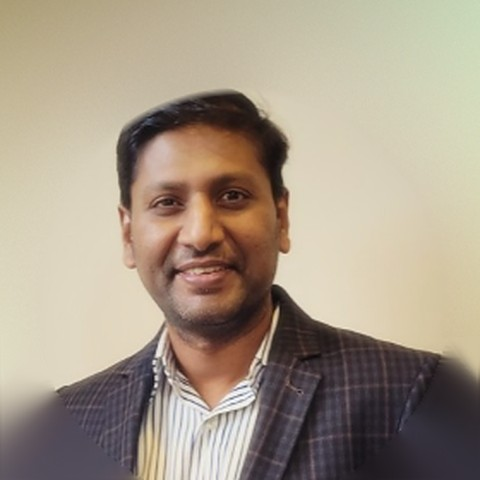
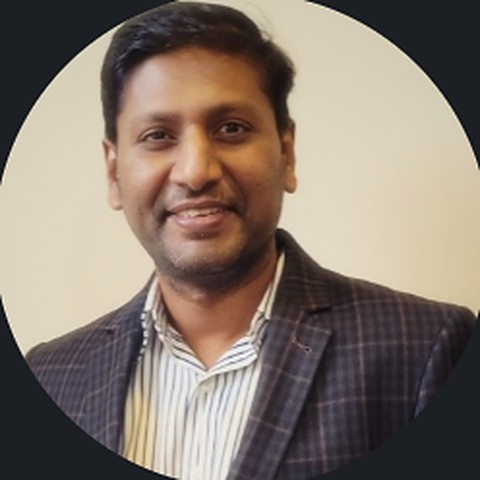
Use the closer photo crop; update home test for the photo hero
Claude-Session: https://claude.ai/code/session_013HtZEuaN4uT7PRGA9nczj2

diff --git a/tests/test_site.py b/tests/test_site.py
@@ -36,7 +36,7 @@ def test_builds_with_no_posts(site):
     counts = build.build(copy / "_site")
     assert counts == {"posts": 0, "frameworks": 9, "books": 0, "pages": 1, "scheduled": []}
     home = (copy / "_site" / "index.html").read_text()
-    assert "No posts yet." in home and "The Question Loop" in home
+    assert "No posts yet." in home and "Latest frameworks" in home
     for f in ["about/index.html", "posts/index.html", "frameworks/the-question-loop/index.html",
               "404.html", "feed.xml", "sitemap.xml", "robots.txt", ".nojekyll", "assets/css/site.css"]:
         assert (copy / "_site" / f).exists(), f
